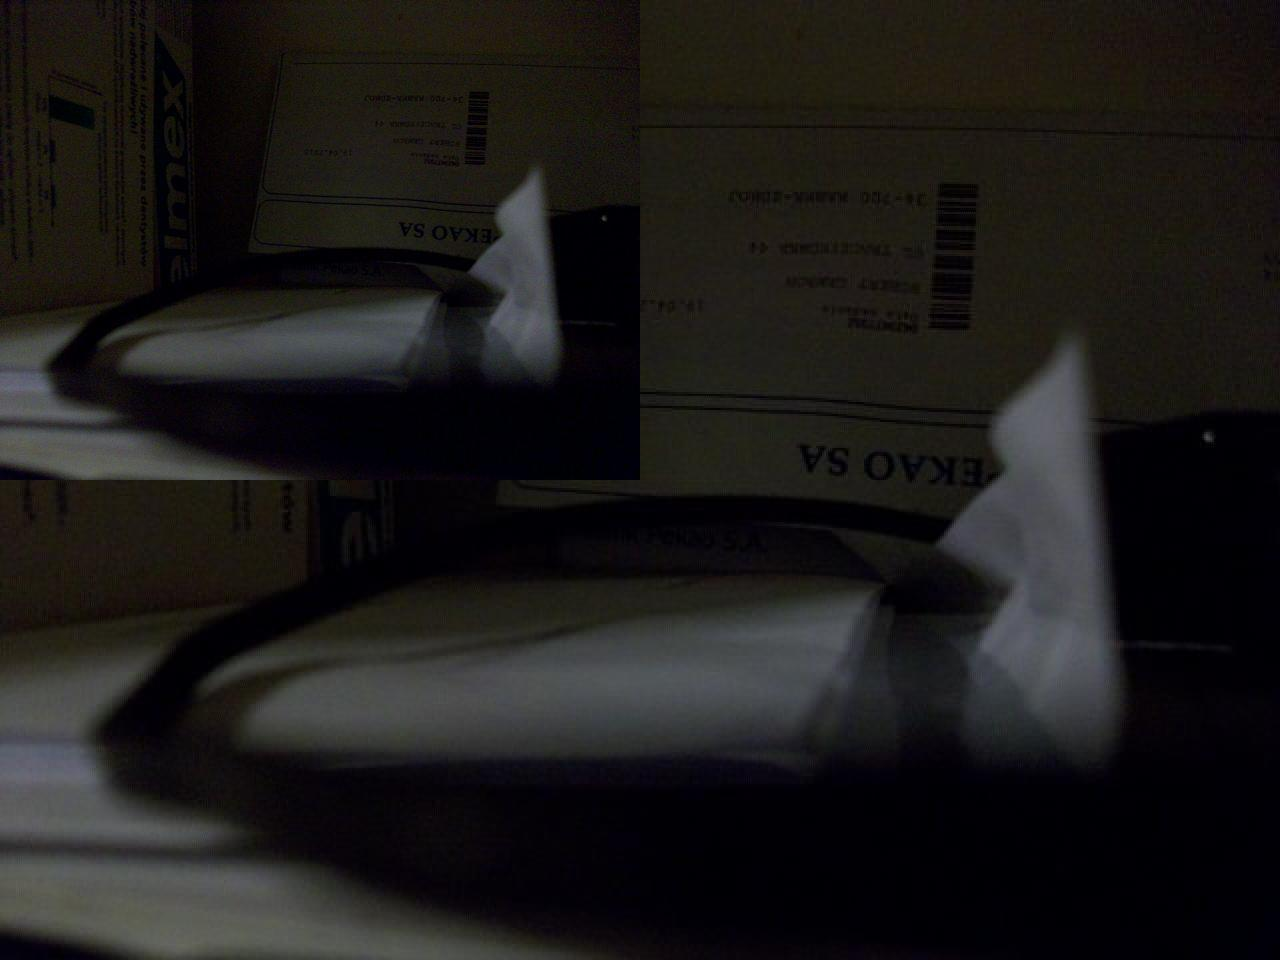
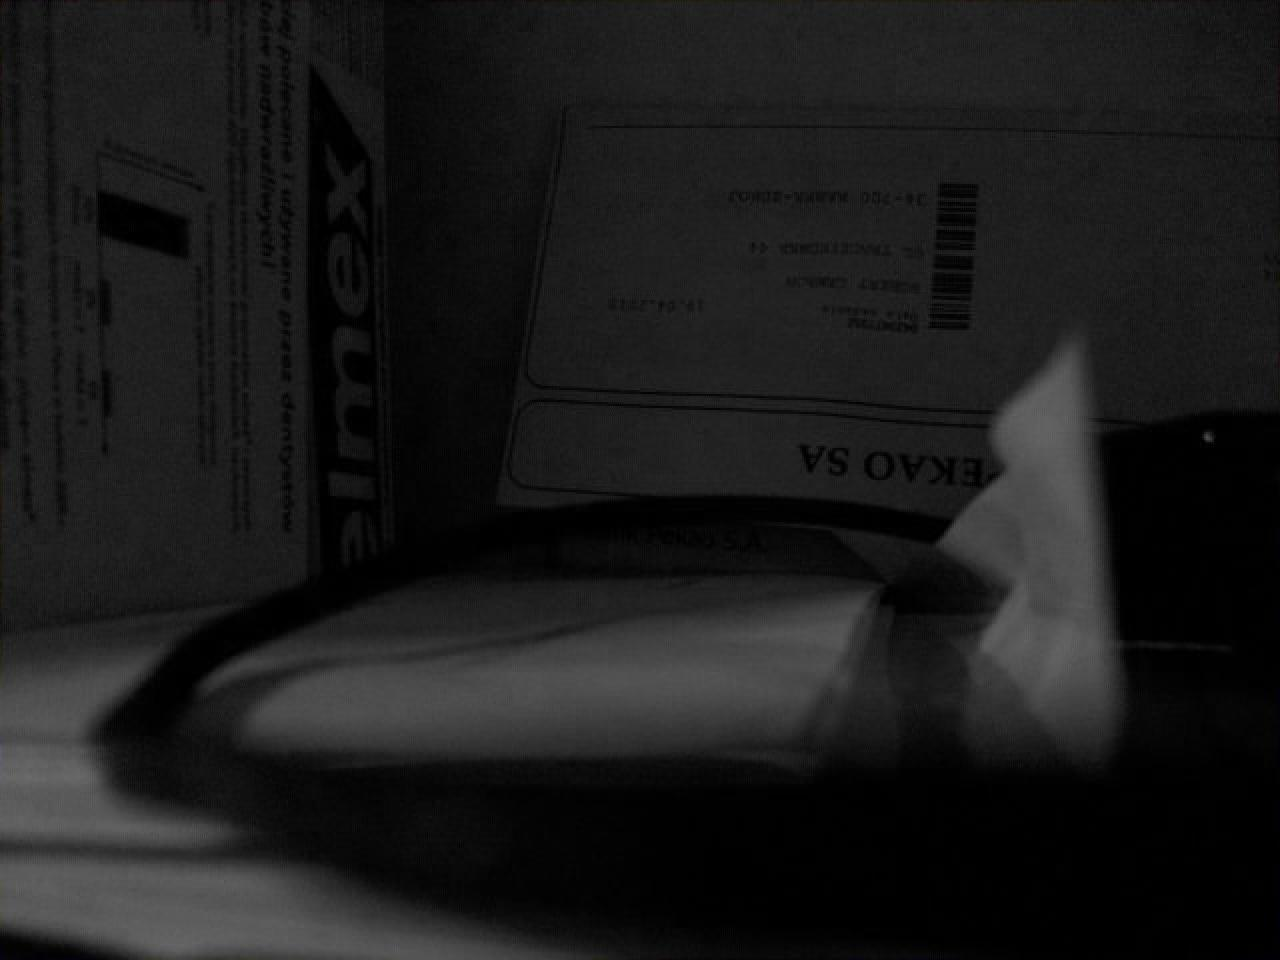
this shit now look quite ok, I'm almost happy

Changed region(s): [[0.0, 0.0, 0.5, 0.5], [0.2812, 0.0, 0.3438, 0.0625]]

diff --git a/sr-image.py b/sr-image.py
@@ -27,6 +27,25 @@ class RawImage:
 
         img.save(file_name)
     
+    def scale(self, factor):
+        # TODO add zoom here
+        scaled = []
+        for y in range(0, self.height):
+            row = []
+            for x in range(0, self.width):
+                if (x%2)==0 and (y%2)==0:
+                    (p1,_,_) = self.body[y][x]
+                    (p2,_,_) = self.body[y+1][x]
+                    (p3,_,_) = self.body[y][x+1]
+                    (p4,_,_) = self.body[y+1][x+1]
+                    p = int((p1+p2+p3+p4)*0.25)
+                    row.append((p,p,p))
+
+            if row != []:
+                scaled.append(row)
+
+        self.body = scaled    
+
 
 class SRParams:
     def __init__(self, iterations=10, zoom=2, c=10):
@@ -48,32 +67,75 @@ class SRImage(RawImage):
 
     def _create_image(self):
         self._create_init_sr_image()
+        
+        for n in range(0, self.params.iterations):
+            self._update_by_backprojection()
+
+
+    def _update_by_backprojection(self):
+        sp = []
+        for y in range(0, self.img.height):
+            row = []
+            for x in range(0, self.img.width):
+                if (x%2) == (y%2) == 0:
+                    (p1,_,_) = self.img.body[y][x]
+                    (p2,_,_) = self.img.body[y+1][x]
+                    (p3,_,_) = self.img.body[y][x+1]
+                    (p4,_,_) = self.img.body[y+1][x+1]
+                    p = int((p1+p2+p3+p4)*0.25)
+                    row.append(p)
+
+            if row != []:
+                sp.append(row)
+
+        for low_res_img in self.images:
+            for y in range(1, low_res_img.height-1):
+                for x in range(1, low_res_img.width-1):
+                    (hp1, _, _) = self.img.body[y*2][x*2]
+                    (hp2, _, _) = self.img.body[y*2+1][x*2]
+                    (hp3, _, _) = self.img.body[y*2][x*2+1]
+                    (hp4, _, _) = self.img.body[y*2+1][x*2+1]
+
+                    (lp, _, _) = low_res_img.body[y][x]
+                    spp = sp[y][x]
+
+
+                    hp1 += (spp-lp)/self.params.c
+                    self.img.body[y*2][x*2] = (hp1, hp1, hp1)
+                    self.img.body[y*2+1][x*2] = (hp2, hp2, hp2)
+                    self.img.body[y*2][x*2+1] = (hp3, hp3, hp3)
+                    self.img.body[y*2+1][x*2+1] = (hp4, hp4, hp4)
+    
+
+
+
 
     def _create_init_sr_image(self):
+        # shit here
         first = self.images[0]
         second = self.images[1]
         self.img.body = []
 
         # TODO add zoom here
-        for y in range(0, self.img.height):
+        for y in range(0, first.height):
             row = []
-            for x in range(0, self.img.width):
-                #row.append(first[y][x])
-                row.append((200, 200, 0))
-                row.append(second[y][x])
+
+            for x in range(0, first.width):
+                row.append(first.body[y][x])
+                row.append(second.body[y][x])
 
             self.img.body.append(row)
             self.img.body.append(row) 
 
-
-
+        self.img.width = first.width*2
+        self.img.height = first.height*2
 
 
 def main():
     low_res_files = ['100_1040.JPG', '100_1041.JPG']
     output_file = 'output.JPG'
 
-    params = SRParams(iterations=2, zoom=10, c=10) 
+    params = SRParams(iterations=5, zoom=10, c=10) 
     low_res_images = map(lambda u: RawImage(u), low_res_files)
     sr_image = SRImage(low_res_images, params)
     sr_image.save(output_file)
